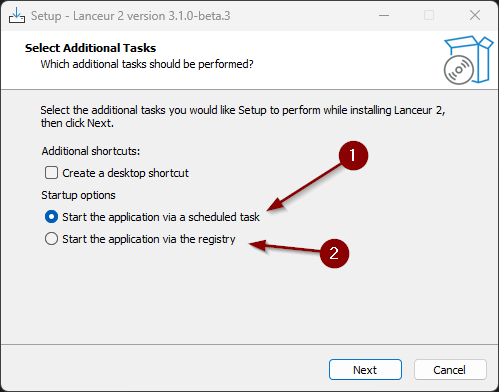
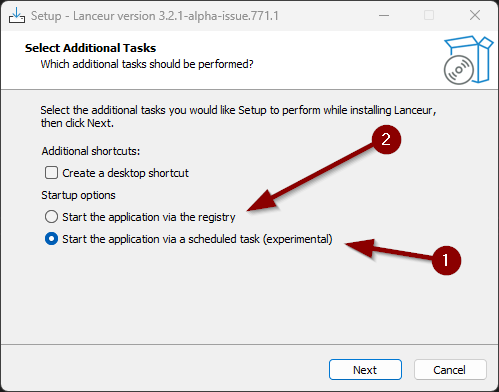
(#771) Update documentation

diff --git a/docs/pages/usermanual/2.keywords-macros-wildcards.md b/docs/pages/usermanual/2.keywords-macros-wildcards.md
@@ -12,14 +12,15 @@ permalink: keywords-macros-wildcards
 
 Lanceur includes built-in predefined keywords that cannot be removed or reconfigured.
 
-| Keyword   | Description                           | Parameter                        |
-| --------- | ------------------------------------- | -------------------------------- |
-| `add`     | Creates a new alias.                  | The name of the alias to create. |
-| `setup`   | Opens the settings page.              | N/A                              |
-| `centre`  | Centers the search box on the screen. | N/A                              |
-| `version` | Displays the version of Lanceur.      | N/A                              |
-| `stat`    | Opens the analytics page.             | N/A                              |
-| `help`    | Opens the online help page            | N/A                              |
+| Keyword   | Description                                   | Parameter                        |
+|-----------|-----------------------------------------------| -------------------------------- |
+| `add`     | Creates a new alias.                          | The name of the alias to create. |
+| `setup`   | Opens the settings page.                      | N/A                              |
+| `centre`  | Centers the search box on the screen.         | N/A                              |
+| `version` | Displays the version of Lanceur.              | N/A                              |
+| `stat`    | Opens the analytics page.                     | N/A                              |
+| `help`    | Opens the online help page                    | N/A                              |
+| `logs`    | Opens the location where the logs are stored  | N/A                              |
 
 ## Macros
 

diff --git a/docs/pages/usermanual/1.create-alias.md b/docs/pages/usermanual/1.create-alias.md
@@ -13,20 +13,20 @@ There are three ways to create an alias: using the `add` keyword or via the `set
 ## Using the `add` Keyword
 
 - Type `add <alias_name>` and press `Enter` to open the creation page.<br>
-  ![Add Keyword](assets/images/usermanual/create_alias_keyword.png)
+  ![Add Keyword](../../assets/images/usermanual/create_alias_keyword.png)
 
 ## Using the `setup` Keyword
 
 - Type `setup` and press `Enter` to open the setting page.<br>
-  ![Setup alias](assets/images/usermanual/setup_alias.png)
+  ![Setup alias](../../assets/images/usermanual/setup_alias.png)
 
 - Normally, the Keyword page should be opened. If not just click on `Name of the menu here`.<br>
-  ![Settings menu](assets/images/usermanual/settings_menu.png)
+  ![Settings menu](../../assets/images/usermanual/settings_menu.png)
 
 ## Using the Settings
 
 - Right-click the Lanceur icon in the system tray and select _Settings..._.<br>
-  ![System Tray](assets/images/usermanual/system_tray_settings.png)
+  ![System Tray](../../assets/images/usermanual/system_tray_settings.png)
 
 # Set Up the Alias and Save
 
@@ -34,7 +34,7 @@ You can now customise the alias to your preference. Once you have finished, clic
 
 Below, you will find an explanation of each setting you can configure for an alias.
 
-![Settings](assets/images/usermanual/create_alias.png)
+![Settings](../../assets/images/usermanual/create_alias.png)
 
 | Nr  | Configuration              | Description                                                                          |
 | --- | -------------------------- | ------------------------------------------------------------------------------------ |

diff --git a/docs/pages/install/1.install.md b/docs/pages/install/1.install.md
@@ -1,0 +1,27 @@
+---
+layout: page
+title: How to install?
+nav_order: 1
+---
+
+# Installation
+
+Visit the release page [HERE](https://github.com/jibedoubleve/lanceur-bis/releases) and download the file `Lanceur.x.x.x.setup.exe`.
+
+## SmartScreen Warning
+
+This warning appears because the installer is new and has not yet been recognised by Microsoft. Rest assured, the software is open source and completely safe—you can review the source code here: [Source Code](https://github.com/jibedoubleve/lanceur-bis).
+
+To proceed, click **"More info"** and then **"Run anyway."** (1)
+
+![Installation warning](../../assets/images/usermanual/install_warning_2.png)
+
+## Choose How You Want the App to Run at Startup
+
+- 1⃣ **Start the application via a scheduled task** (⚠ Experimental Feature): The installer will create a scheduled task that launches Lanceur when the user logs in. *Note: This method has a known issue where the application closes when the computer switches to battery power.*
+- 2⃣ **Start the application via the registry**: Lanceur will be added to the registry to start automatically at login.
+
+![Installation choice](../../assets/images/usermanual/install_choices.png)
+
+> The scheduled task method is faster than the registry method because it runs with higher priority, bypasses startup delays, executes before Explorer loads, and avoids potential permission issues. However, due to the known issue with battery power, users may prefer the registry method for stability.
+

diff --git a/docs/pages/usermanual/6.bookmarks.md b/docs/pages/usermanual/6.bookmarks.md
@@ -24,14 +24,14 @@ Now whenever you type `/` it'll search the text you type in your bookmarks. When
 
    - Type **`setup`** in the search bar _or_
    - Click on the **system tray**  
-     ![System tray](assets/images/usermanual/system_tray_settings.png)
+     ![System tray](../../assets/images/usermanual/system_tray_settings.png)
 
 2. **Access the Settings Menu**  
-   ![Settings](assets/images/usermanual/settings.png)
+   ![Settings](../../assets/images/usermanual/settings.png)
 
 3. **Select Your Preferred Browser**  
-   ![Bookmark settings](assets/images/usermanual/bookmark_settings.png)
+   ![Bookmark settings](../../assets/images/usermanual/bookmark_settings.png)
 
 4. **Customize the Shortcut (Optional)**
    - You can override the default shortcut if needed.  
-     ![Bookmark settings](assets/images/usermanual/bookmark_settings_2.png)
+     ![Bookmark settings](../../assets/images/usermanual/bookmark_settings_2.png)

diff --git a/docs/pages/usermanual/3.additional-params.md b/docs/pages/usermanual/3.additional-params.md
@@ -18,7 +18,7 @@ To view all available additional parameters, press `:` (semicolon). A list of pa
 
 ## How to configure it?
 
-![Single parameter](assets/images/usermanual/additional_parameters.png)
+![Single parameter](../../assets/images/usermanual/additional_parameters.png)
 
 - To add a single parameter, click **Add single parameter**.
 - To add multiple parameters at once, click **Add multiple parameters**.
@@ -26,4 +26,4 @@ To view all available additional parameters, press `:` (semicolon). A list of pa
   - Separate the parameter name from its value using a comma.
   - Ensure each line contains only one comma.
 
-![Multiple Parameters](assets/images/usermanual/additional_parameters_multiple.png)
+![Multiple Parameters](../../assets/images/usermanual/additional_parameters_multiple.png)

diff --git a/docs/pages/install/2.prerequisites.md b/docs/pages/install/2.prerequisites.md
@@ -1,0 +1,24 @@
+---
+layout: page
+parent: How to install?
+title: Prerequisites
+nav_order: 1
+---
+
+# Prerequisites for Installing Lanceur
+
+## File Search Prerequisite
+
+To use the file search functionality in *Lanceur*, you need to install *Voidtools Everything*.
+
+If *Everything* is not installed or not running, the search feature will not return any results.
+
+## Installing *Voidtools Everything*
+
+Follow these steps to install *Everything*:
+
+1. **Download the installer** from [HERE](https://www.voidtools.com/downloads/).
+2. **Run the installer** and keep the default values during installation.
+3. **Enable the service and set it to start automatically**.
+
+![How to install](../../assets/images/usermanual/prereq-install-everything.png)

diff --git a/docs/pages/usermanual/8.analytics.md b/docs/pages/usermanual/8.analytics.md
@@ -19,7 +19,7 @@ The analytics section in the database tracks the following usage metrics:
 - **Daily Usage Trend**
 - **Hourly Usage Trend**
 
-![Analytics](assets/images/usermanual/analytics.png)
+![Analytics](../../assets/images/usermanual/analytics.png)
 
 ---
 
@@ -27,4 +27,4 @@ The analytics section in the database tracks the following usage metrics:
 
 Since **Lanceur** is an open-source project, the database schema is publicly available. However, if you're curious about the structure, here's a visual representation of the database schema for your reference:
 
-![Schema](assets/images/usermanual/sqlite_diagram.png)
+![Schema](../../assets/images/usermanual/sqlite_diagram.png)

diff --git a/docs/pages/usermanual/4.lua-scripting.md b/docs/pages/usermanual/4.lua-scripting.md
@@ -16,4 +16,4 @@ You can create a Lua script to run before the alias starts. The main purpose is 
 
 The script API is minimal. You have access to a `context` object with two properties: `Parameters` and `FileName` (**case sensitive**). You can **Dry run** the script to preview its behaviour. When you’re satisfied, click **Apply**. The script will only be saved to the database if you click **Save** on the main page.
 
-![Lua Editor](assets/images/usermanual/lua_script.png)
+![Lua Editor](../../assets/images/usermanual/lua_script.png)

diff --git a/docs/pages/usermanual/index.md b/docs/pages/usermanual/index.md
@@ -10,7 +10,7 @@ nav_order: 2
 
 An alias is a keyword linked to an application. When users type it, the application will launch as configured.
 
-![Start alias](../assets/images/usermanual/start_alias.png)
+![Start alias](../../assets/images/usermanual/start_alias.png)
 
 Create a list of shortcuts, configure them, and save time by simply typing the shortcut and pressing `ENTER`.
 

diff --git a/docs/pages/usermanual/7.calculator.md b/docs/pages/usermanual/7.calculator.md
@@ -8,7 +8,7 @@ permalink: calculator
 
 # Calculator
 
-![Calculator](assets/images/usermanual/calculator.png)
+![Calculator](../../assets/images/usermanual/calculator.png)
 
 The calculator allows you to perform basic arithmetic operations effortlessly. Simply enter an expression like `3+4`, and it will return the computed result instantly.
 

diff --git a/docs/pages/usermanual/5.searcheverything.md b/docs/pages/usermanual/5.searcheverything.md
@@ -16,7 +16,7 @@ Since Lanceur is just a wrapper, you can use the same search queries as you woul
 
 ## How to Configure It
 
-![Configuration](assets/images/usermanual/everything_settings.png)
+![Configuration](../../assets/images/usermanual/everything_settings.png)
 
 You can customize the search behavior with the following settings:
 

diff --git a/docs/pages/usermanual/9.data-reconciliation.md b/docs/pages/usermanual/9.data-reconciliation.md
@@ -8,7 +8,7 @@ permalink: data-reconciliation
 
 # Data Reconciliation
 
-![Data reconciliation](assets/images/usermanual/data_reconciliation.png)
+![Data reconciliation](../../assets/images/usermanual/data_reconciliation.png)
 
 ## Overview
 
